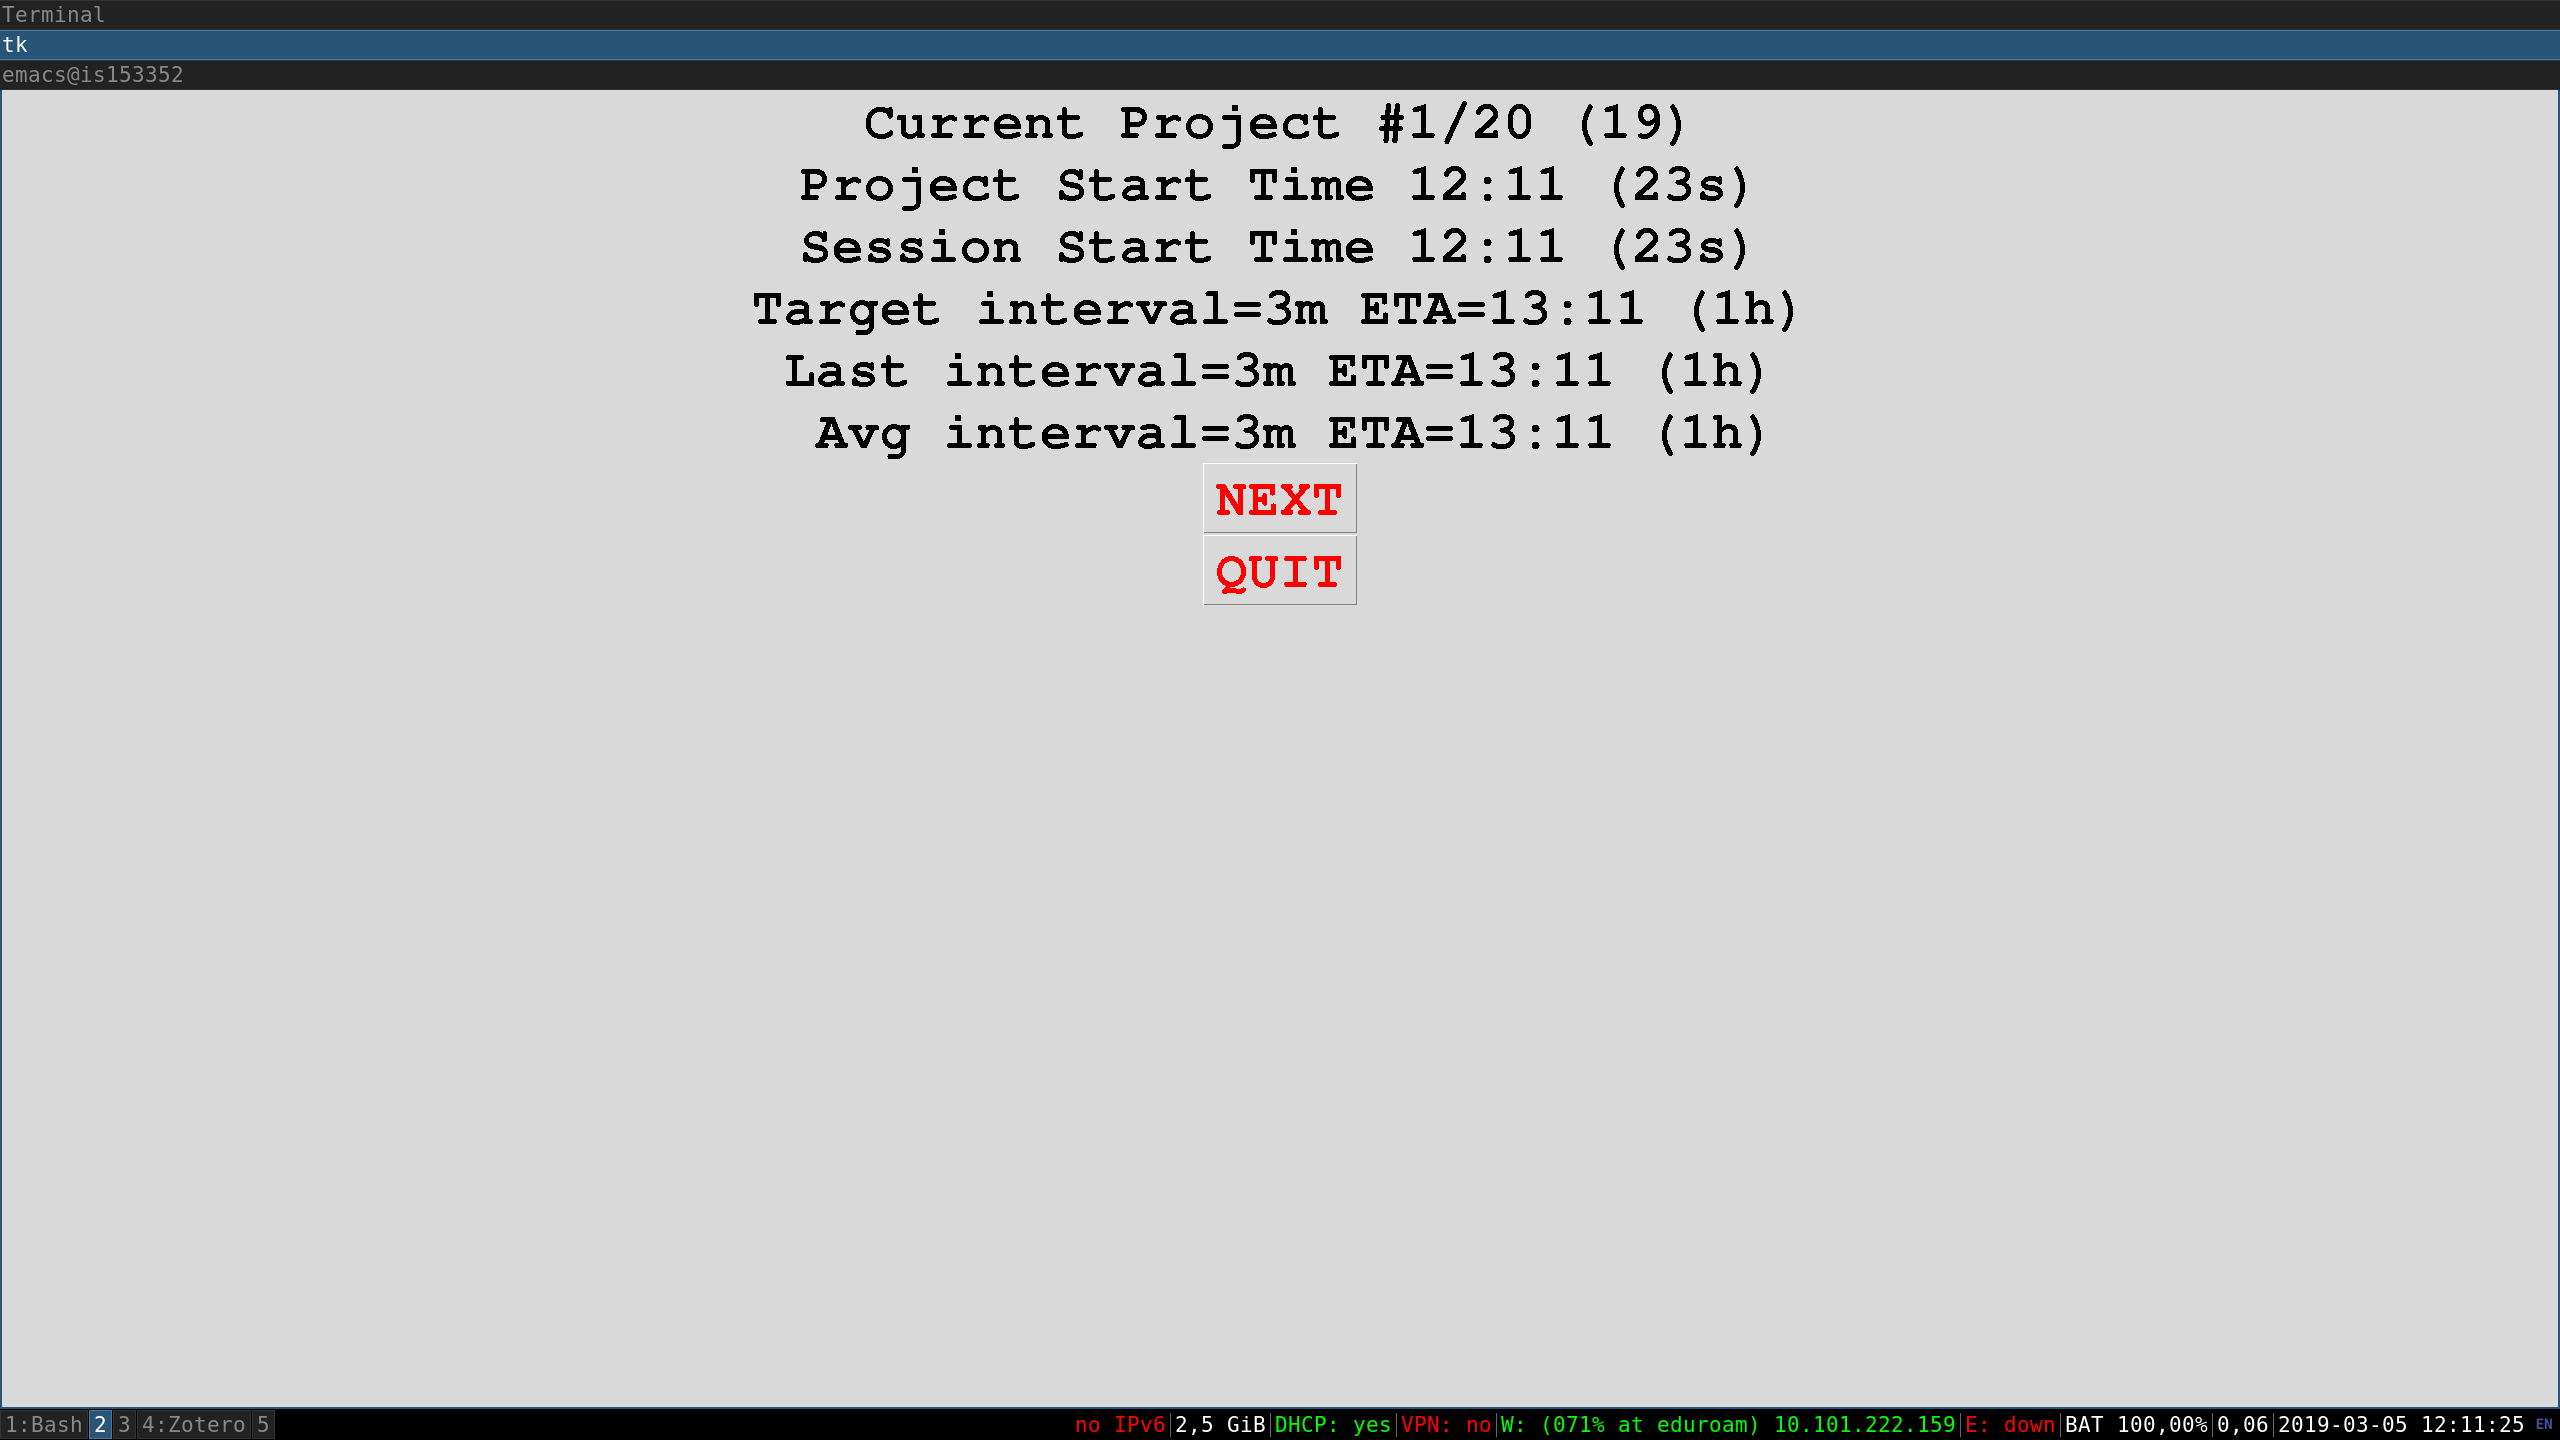
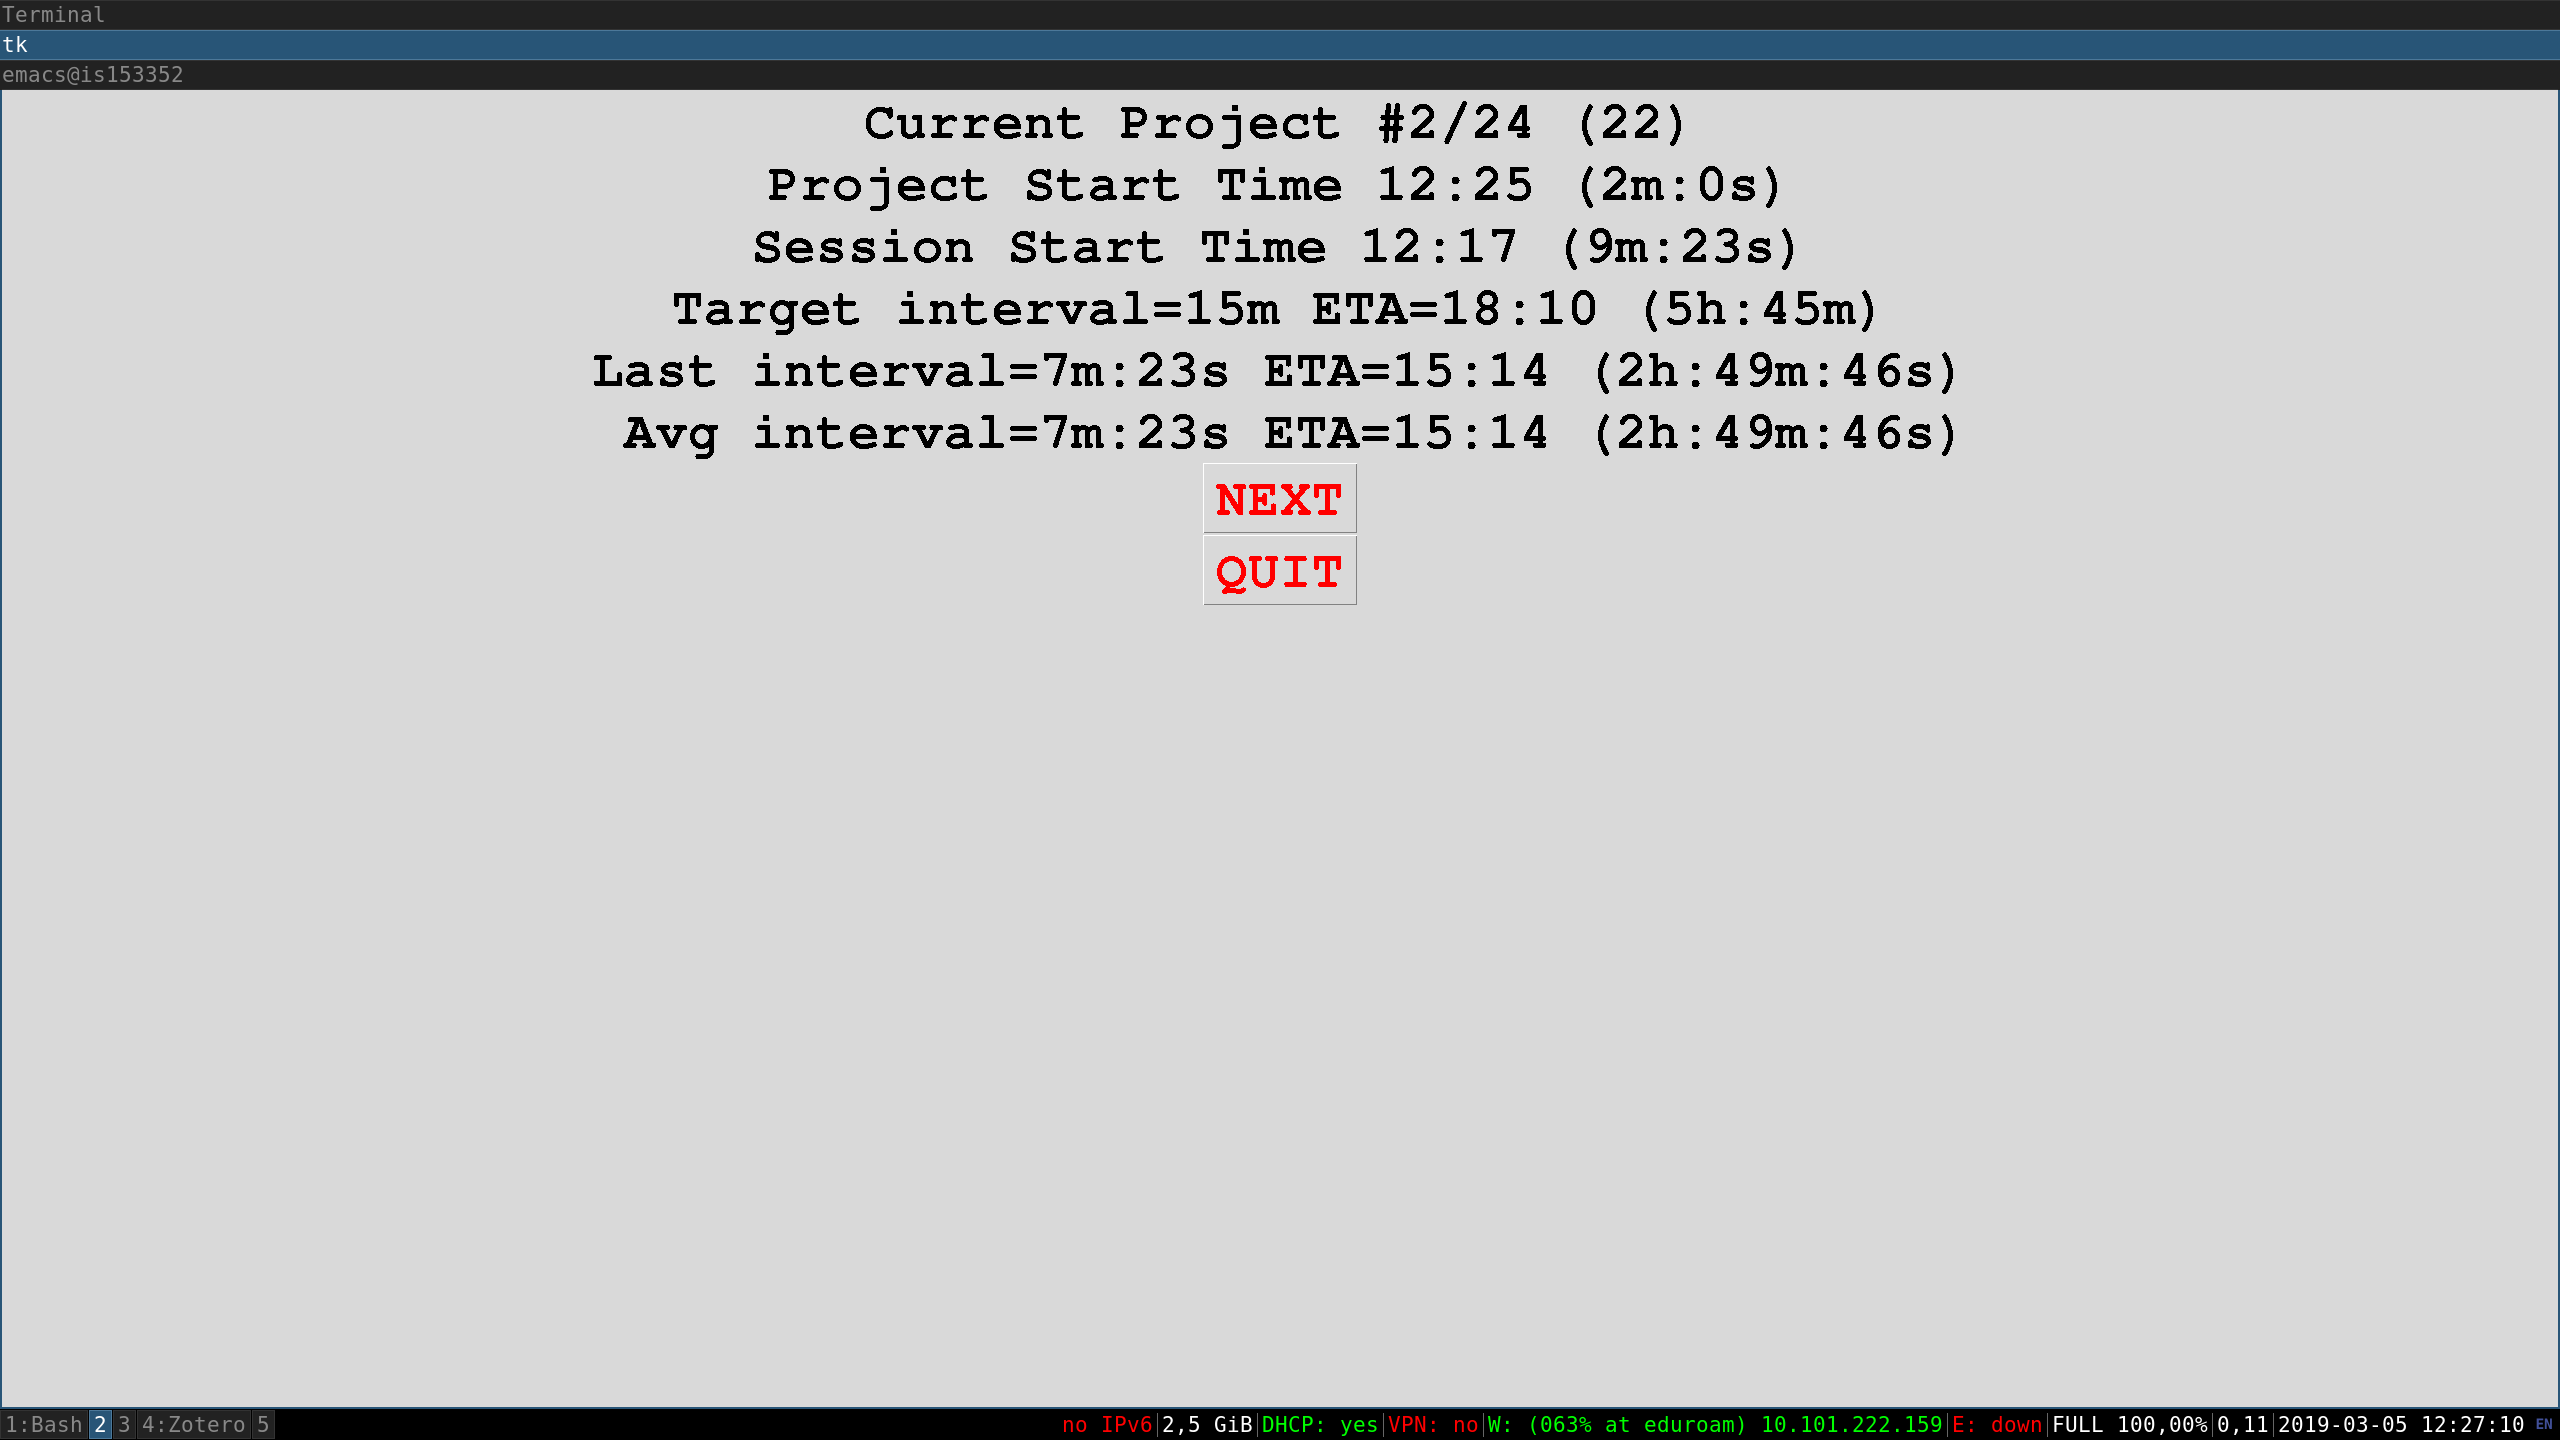
improve doc

diff --git a/README.md b/README.md
@@ -1,10 +1,10 @@
 # jury_clock
-A clock to estimate to time to finish evaluating a series of projects.
+A timekeeper to estimate the duration and end-time when evaluating a series of projects.
 
 
 Supposing than you plan to assess 5 projects and that you expect to spend 12 minutes per projet: 
 
-    python jury_clock.py --nprojects 5 --interval 12
+    python jury_clock.py --nprojects 20 --interval 15
 
 
 Example of a screenshot:

diff --git a/TODO.md b/TODO.md
@@ -1,0 +1,5 @@
+* allow to override (with editable fields)
+  - current project number 
+  - total number of projects 
+  - target interval
+* add a PAUSE button
